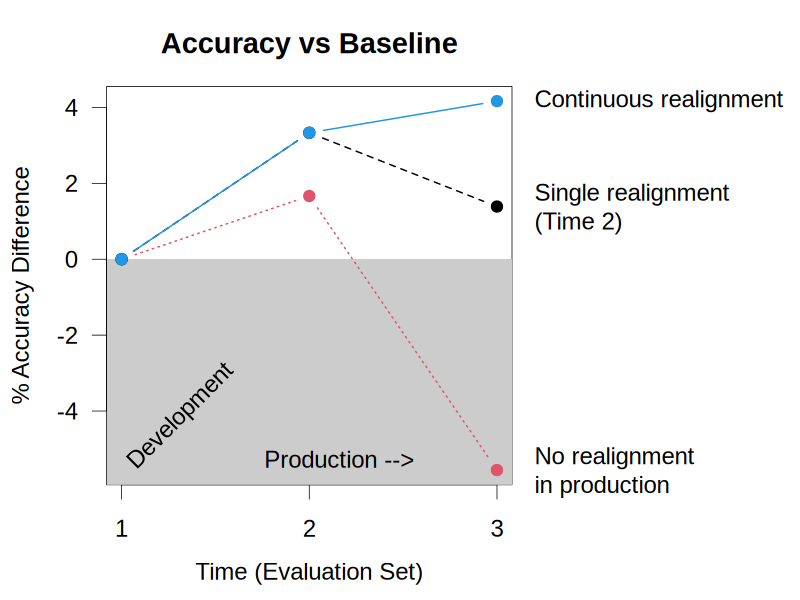
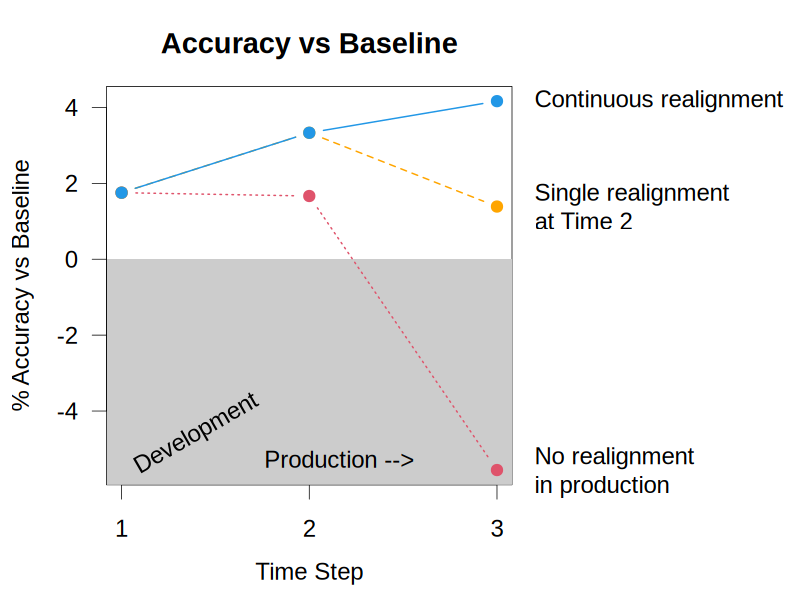
Update evaluations for evalset 1

diff --git a/README.md b/README.md
@@ -132,7 +132,8 @@ For each alignment, we run evaluations on the current and all previous rounds of
 | &emsp;&emsp;Few-shot AI judge | 18 | 16 | 92% | 47% |
 | &emsp;&emsp;Heuristic AI judge | 23 | 15 | 65% | 53% |
 
-### Discussion
+<details>
+<summary>Discussion</summary>
 
 - The few-shot and heuristic classifiers agree on most classifications (ca. 90%)
 - For revisions where the classifiers disagree ("hard examples"):
@@ -147,11 +148,24 @@ For each alignment, we run evaluations on the current and all previous rounds of
 - Accuracy scores are for the hard examples, not the entire dataset
   - Lower performance on test set may be due to concept drift (i.e., annotator fatigue)
 
+</details>
+
 ## Production Results
 
-Model accuracy (difference from baseline unaligned judge) for different combinations of evaluation sets and alignments:
+Production data were produced by a single user intentionally changing the frequency of noteworthy classifications through time.
+We can see the results in the following visualization of concept drift.
+Over time, more revisions are labeled as not noteworthy by the human.
+Because the baseline model (unaligned AI judge) tends to classify most revisions as noteworthy, its performance becomes progressively worse.
 
 <div align="left">
-  <img src="image/eval-accuracy.png" alt="Model accuracy for different combination of evaluation sets and alignments" style="width:50%;"/>
+  <img src="image/concept-drift.png" alt="Concept drift visualization showing that over time, more revisions are labeled as not noteworthy" style="width:60%;"/>
+</div>
+
+The next plot show model accuracy (difference from the baseline unaligned judge) for different combinations of evaluation sets and alignments.
+The judge aligned once in development actually performs worse than the baseline model during production.
+Realignment during production is needed to keep the deployed model more performant than the baseline.
+
+<div align="left">
+  <img src="image/eval-accuracy.png" alt="Model accuracy for different combination of evaluation sets and alignments" style="width:60%;"/>
 </div>
 
